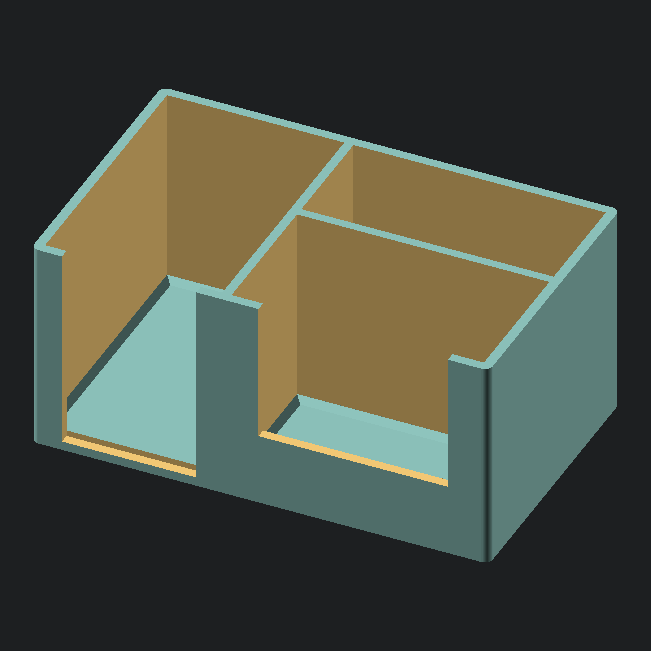
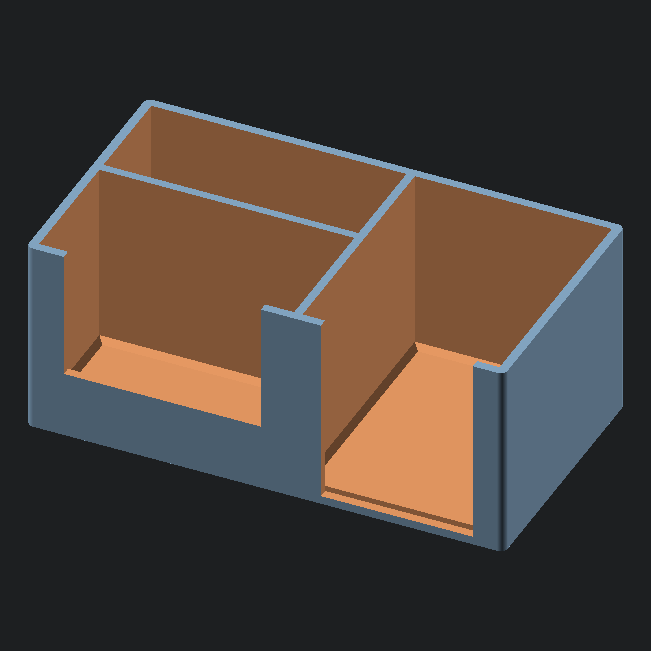
fix: adjust caddy dimensions and compartment widths for TCG supplies

diff --git a/assets/measurements/tcg-dimensions.md b/assets/measurements/tcg-dimensions.md
@@ -1,0 +1,31 @@
+# TCG Supply & Card Dimensions Reference
+
+Reference specifications measured via digital caliper for CAD modeling, clearance checks, and parametric OpenSCAD scripts.
+
+> **Note:** Dimensions represent raw physical items. When modeling slots or bays, add your required clearance/tolerance (typically **+0.8mm to +1.5mm** depending on fit preference and print shrinkage).
+
+| Item / Supply | Width ($X$) | Height ($Y$) | Thickness ($Z$) | Typical Tolerance Added |
+| :--- | :--- | :--- | :--- | :--- |
+| **Penny Sleeves** | 67.0 mm | 92.0 mm | Variable | +1.5 mm to +2.0 mm |
+| **Top Loaders (35pt)** | 76.0 mm | 101.0 mm | ~2.0 mm | +1.0 mm to +1.5 mm |
+| **Semi-Rigid Holders** | 85.0 mm | 122.0 mm | ~1.5 mm | +1.2 mm to +1.5 mm |
+| **Magnetic One-Touch** | 44.0 mm | 110.0 mm | ~8.0 mm | +0.8 mm to +1.2 mm |
+
+---
+
+## OpenSCAD Variable Snippet
+
+Ready-to-use variable definitions for parametric inclusion in `.scad` scripts:
+
+```openscad
+// ==========================================
+// TCG RAW REFERENCE DIMENSIONS (mm)
+// ==========================================
+PENNY_SLEEVE_DIM      = [67.0, 92.0];
+TOPLOADER_35PT_DIM    = [76.0, 101.0, 2.0];
+SEMI_RIGID_DIM        = [85.0, 122.0, 1.5];
+MAGNETIC_HOLDER_DIM   = [44.0, 110.0, 8.0];
+
+// Default recommended slot clearance
+TCG_CLEARANCE = 1.2;
+```
